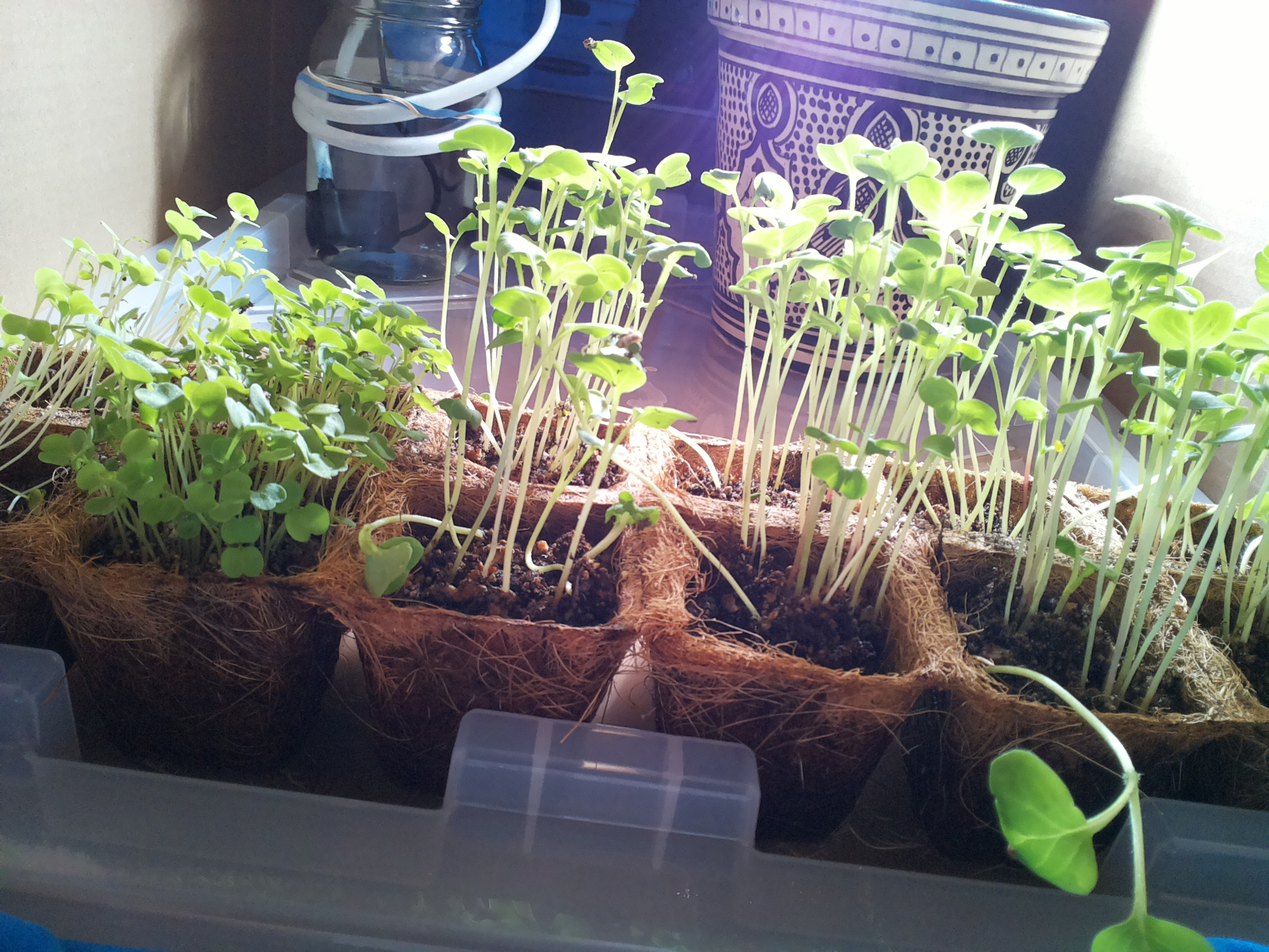
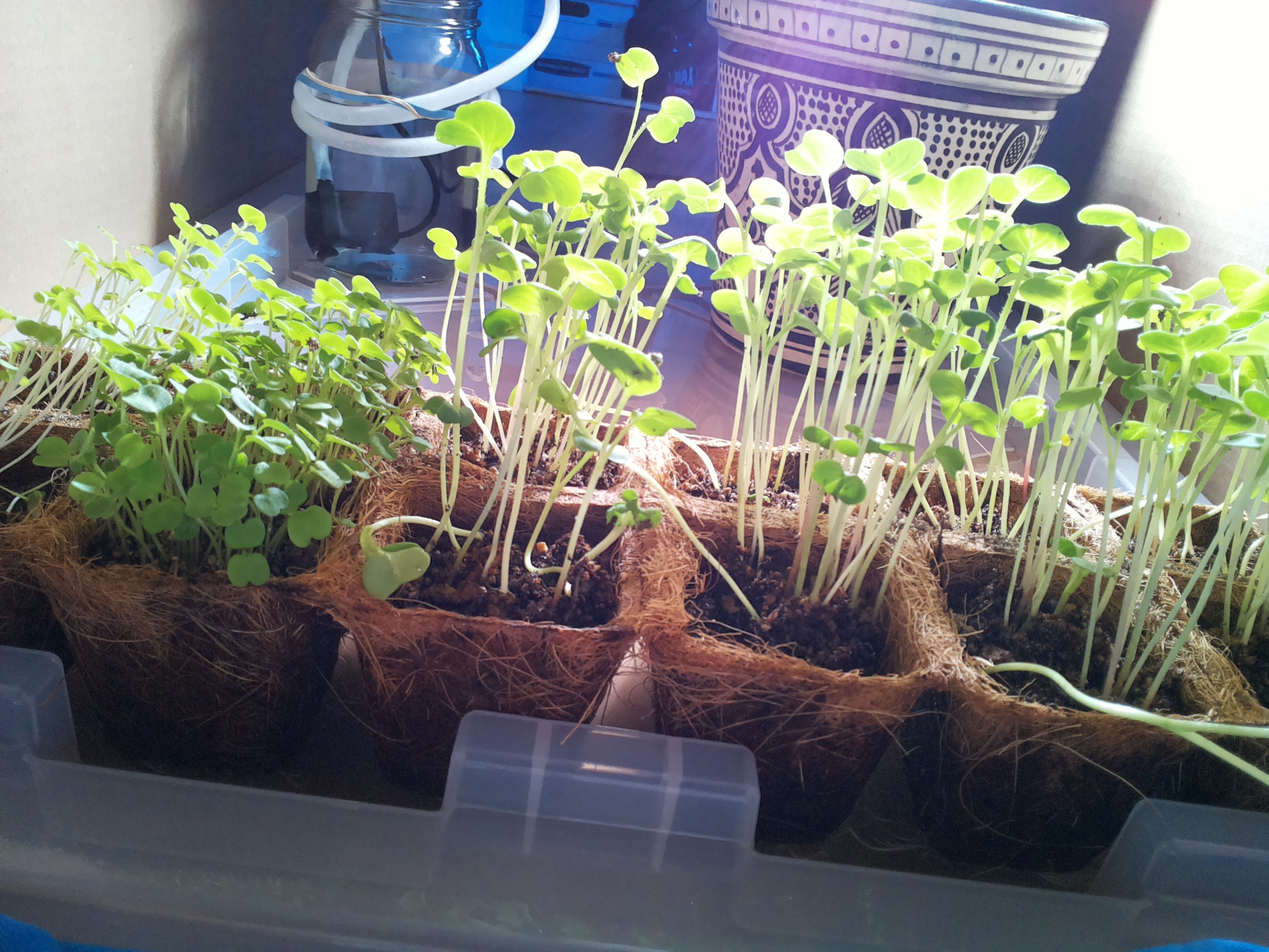
mirror sync 2026-09-02 13:10

diff --git a/JOURNAL.md b/JOURNAL.md
@@ -202,3 +202,11 @@
 - Lamp: on — correct for photoperiod.
 - Watering: 4s pulse per standing order 2 (4s of 60s daily cap used; water.py OK, pump plug verified OFF after). Jar level held post-pulse.
 - No changes to standing orders. Next: 13:07 observe-only; 19:22 pulse unless surfaces look dark.
+
+### 2026-09-02 13:07 — midday check-in (cron, observe only)
+- Photo: seedlings vigorous in all 12 cells (day 9) — tall, leggy, cotyledons broad, turgid, and green; no wilting, mold, pests, or tipping. Tube in place over the lid.
+- Jar: zoomed photo shows dark water still high in the glass — refill holding, pump body well covered, siphon losses negligible.
+- Soil: mixed — dark damp patches in most cells with some drier crumbly spots and perlite showing; coir walls still pale. Rewetting from the refill continues, no dry-down alarm.
+- Lamp: on — correct for photoperiod.
+- Watering: none (observe-only per standing order 2); 4s of 60s daily cap used. Evening 19:22 pulse planned unless surfaces look dark.
+- No changes to standing orders.
